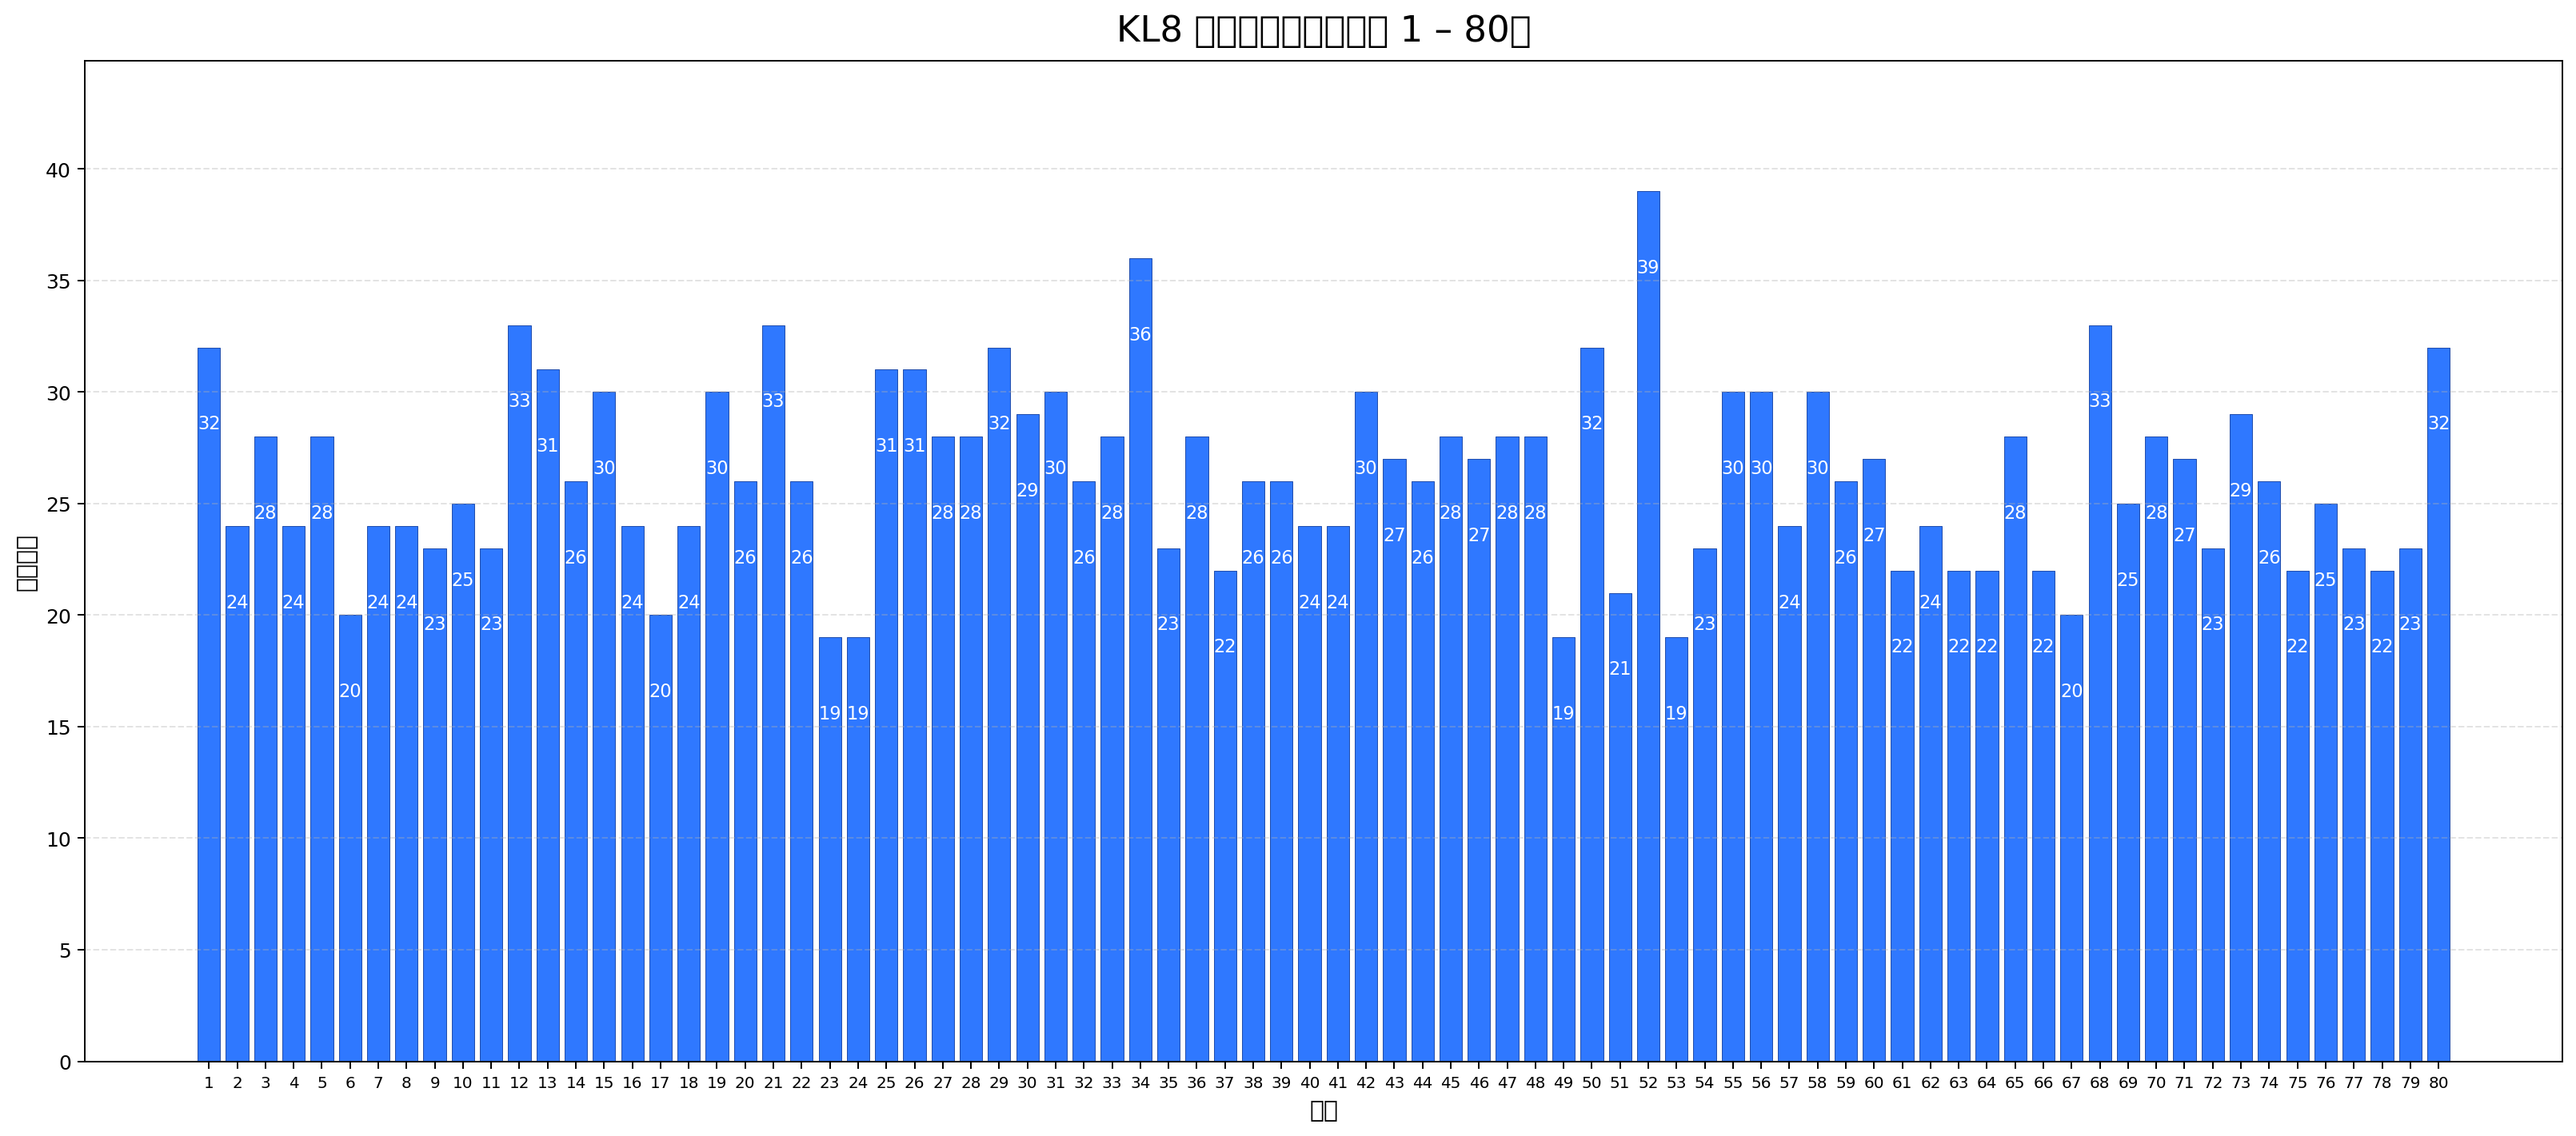
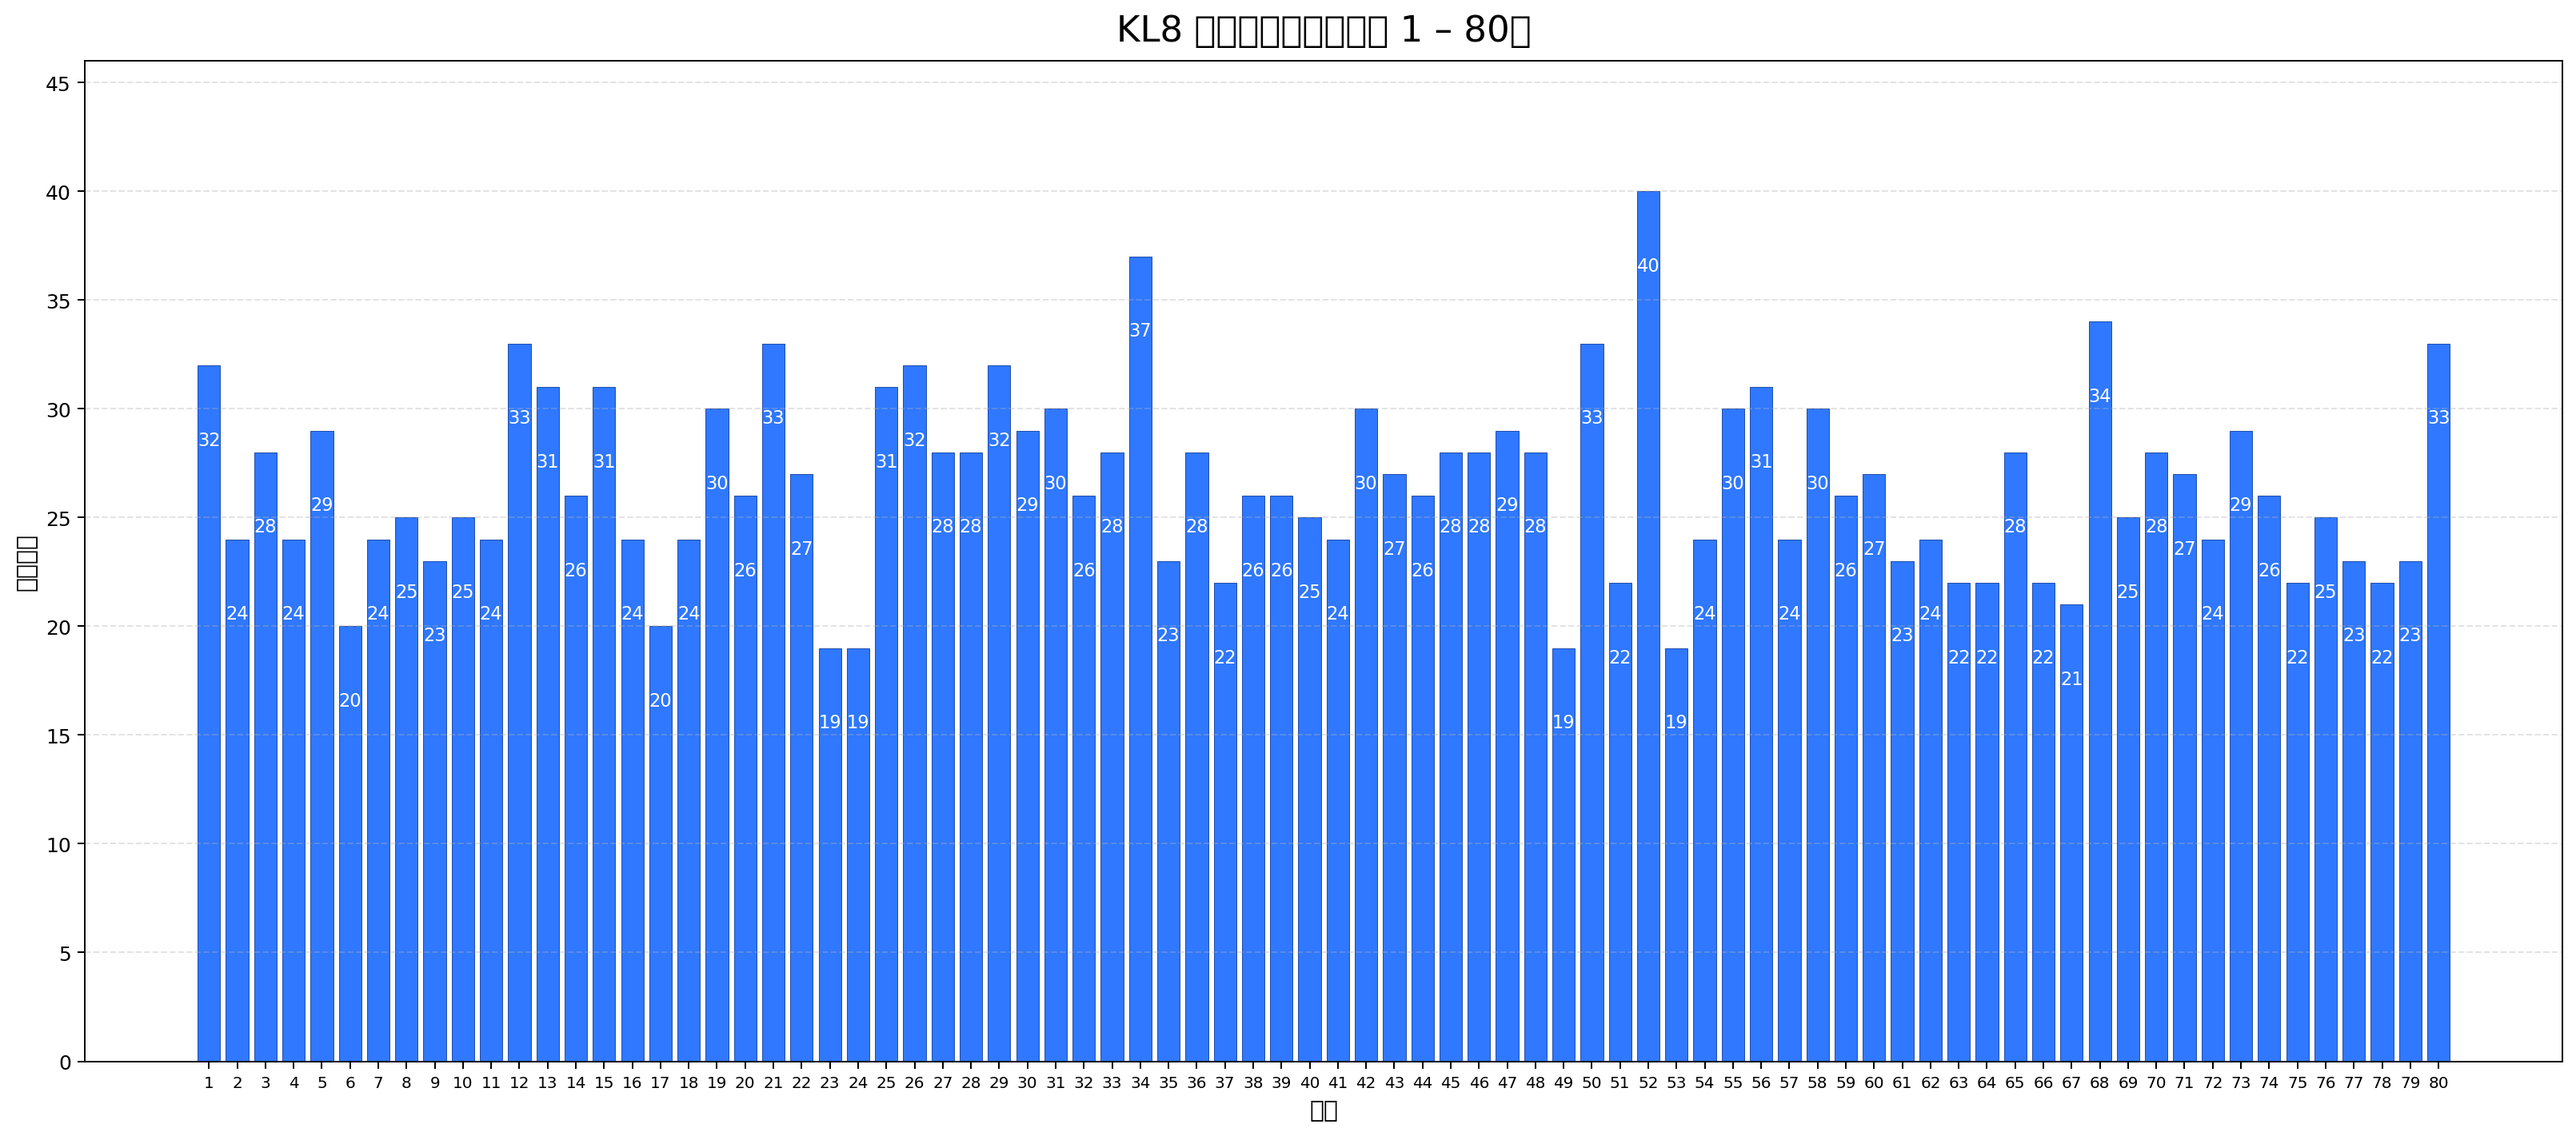
Update lottery data and analysis reports - 2025-08-20 23:16:18 (UTC+8)

diff --git a/reports/kl8_analysis_report.md b/reports/kl8_analysis_report.md
@@ -3,30 +3,30 @@
 > 免责声明：历史数据无法预测未来。本报告仅供技术学习参考，不构成投注建议。
 
 
-**数据期数**: 105 期
+**数据期数**: 106 期
 
-**最近开奖**: 期号 2025221 | 日期 2025-08-19(二) | 号码: 09, 10, 13, 14, 22, 30, 32, 34, 36, 38, 43, 49, 50, 54, 56, 57, 58, 68, 69, 76
+**最近开奖**: 期号 2025222 | 日期 2025-08-20(三) | 号码: 05, 08, 11, 15, 22, 26, 34, 40, 46, 47, 50, 51, 52, 54, 56, 61, 67, 68, 72, 80
 
-**和值均值(样本)**: 803.81 ；**理论期望**: 810
+**和值均值(样本)**: 804.39 ；**理论期望**: 810
 
 
 ## 热号 Top15
 
-52(39), 34(36), 12(33), 21(33), 68(33), 01(32), 29(32), 50(32), 80(32), 13(31), 25(31), 26(31), 15(30), 19(30), 31(30)
+52(40), 34(37), 68(34), 12(33), 21(33), 50(33), 80(33), 01(32), 26(32), 29(32), 13(31), 15(31), 25(31), 56(31), 19(30)
 
 
 ## 冷号 Top15
 
-53(19), 49(19), 24(19), 23(19), 67(20), 17(20), 06(20), 51(21), 78(22), 75(22), 66(22), 64(22), 63(22), 61(22), 37(22)
+53(19), 49(19), 24(19), 23(19), 17(20), 06(20), 67(21), 78(22), 75(22), 66(22), 64(22), 63(22), 51(22), 37(22), 79(23)
 
 
 ## 推荐组合（示例，非投注建议）
 
-- 方案1: 09, 10, 13, 28, 30, 33, 42, 43, 44, 48, 49, 55, 57, 62, 63, 66, 67, 68, 76, 78
-- 方案2: 04, 17, 18, 19, 21, 22, 26, 28, 33, 36, 43, 49, 50, 55, 60, 66, 69, 72, 75, 80
-- 方案3: 06, 07, 09, 11, 19, 22, 32, 33, 36, 42, 44, 45, 47, 51, 62, 67, 71, 76, 79, 80
-- 方案4: 02, 10, 13, 15, 21, 22, 26, 36, 38, 41, 43, 48, 50, 51, 53, 57, 68, 69, 72, 76
-- 方案5: 01, 04, 08, 09, 10, 14, 25, 26, 38, 41, 43, 56, 57, 59, 61, 65, 68, 69, 74, 76
+- 方案1: 09, 10, 14, 29, 30, 32, 42, 43, 45, 48, 49, 55, 56, 61, 63, 66, 67, 68, 76, 79
+- 方案2: 05, 08, 09, 12, 18, 22, 33, 34, 36, 43, 46, 47, 49, 52, 63, 67, 71, 76, 79, 80
+- 方案3: 10, 15, 17, 18, 19, 20, 22, 27, 29, 35, 36, 40, 43, 46, 47, 50, 52, 58, 69, 80
+- 方案4: 08, 09, 10, 13, 18, 20, 22, 24, 36, 37, 40, 42, 47, 51, 53, 61, 62, 68, 72, 75
+- 方案5: 05, 09, 15, 21, 22, 25, 28, 34, 36, 39, 41, 46, 52, 57, 64, 67, 68, 73, 79, 80
 
 ---
 

diff --git a/reports/kl8_profit_plan.md b/reports/kl8_profit_plan.md
@@ -4,16 +4,16 @@
 
 - 总预算：¥22.00 ； 单注价格：¥2.00 ； 计划总注数：11
 
-- 最近开奖：期号 2025221 | 日期 2025-08-19(二) | 号码：09, 10, 13, 14, 22, 30, 32, 34, 36, 38, 43, 49, 50, 54, 56, 57, 58, 68, 69, 76
+- 最近开奖：期号 2025222 | 日期 2025-08-20(三) | 号码：05, 08, 11, 15, 22, 26, 34, 40, 46, 47, 50, 51, 52, 54, 56, 61, 67, 68, 72, 80
 
 
 ## 推荐组合与资金分配
 
-- 方案01 | 分数 0.349116 | 注数   3 | 金额 ¥6.00 | 号码：09, 10, 13, 28, 30, 33, 42, 43, 44, 48, 49, 55, 57, 62, 63, 66, 67, 68, 76, 78
-- 方案02 | 分数 0.339329 | 注数   2 | 金额 ¥4.00 | 号码：04, 17, 18, 19, 21, 22, 26, 28, 33, 36, 43, 49, 50, 55, 60, 66, 69, 72, 75, 80
-- 方案03 | 分数 0.270347 | 注数   1 | 金额 ¥2.00 | 号码：06, 07, 09, 11, 19, 22, 32, 33, 36, 42, 44, 45, 47, 51, 62, 67, 71, 76, 79, 80
-- 方案04 | 分数 0.375 | 注数   3 | 金额 ¥6.00 | 号码：02, 10, 13, 15, 21, 22, 26, 36, 38, 41, 43, 48, 50, 51, 53, 57, 68, 69, 72, 76
-- 方案05 | 分数 0.333067 | 注数   2 | 金额 ¥4.00 | 号码：01, 04, 08, 09, 10, 14, 25, 26, 38, 41, 43, 56, 57, 59, 61, 65, 68, 69, 74, 76
+- 方案01 | 分数 0.313318 | 注数   2 | 金额 ¥4.00 | 号码：09, 10, 14, 29, 30, 32, 42, 43, 45, 48, 49, 55, 56, 61, 63, 66, 67, 68, 76, 79
+- 方案02 | 分数 0.309081 | 注数   2 | 金额 ¥4.00 | 号码：05, 08, 09, 12, 18, 22, 33, 34, 36, 43, 46, 47, 49, 52, 63, 67, 71, 76, 79, 80
+- 方案03 | 分数 0.312671 | 注数   2 | 金额 ¥4.00 | 号码：10, 15, 17, 18, 19, 20, 22, 27, 29, 35, 36, 40, 43, 46, 47, 50, 52, 58, 69, 80
+- 方案04 | 分数 0.310554 | 注数   2 | 金额 ¥4.00 | 号码：08, 09, 10, 13, 18, 20, 22, 24, 36, 37, 40, 42, 47, 51, 53, 61, 62, 68, 72, 75
+- 方案05 | 分数 0.329771 | 注数   3 | 金额 ¥6.00 | 号码：05, 09, 15, 21, 22, 25, 28, 34, 36, 39, 41, 46, 52, 57, 64, 67, 68, 73, 79, 80
 
 **合计**：¥22.00
 

diff --git a/reports/color_ball_analysis_report.md b/reports/color_ball_analysis_report.md
@@ -1,7 +1,7 @@
 # 🎯 双色球数据分析报告
 
 ## 📊 报告信息
-- **生成时间**: 2025年08月19日 23:16:17 (UTC+8)
+- **生成时间**: 2025年08月20日 23:16:09 (UTC+8)
 - **数据期数**: 共 1902 期
 - **下一期开奖日(按周)**: 周四
 - **最新期号**: 2025095
@@ -239,6 +239,6 @@
 
 ---
 
-*报告生成时间: 2025年08月19日 23:16:17 (UTC+8)*  
+*报告生成时间: 2025年08月20日 23:16:09 (UTC+8)*  
 *数据来源: 中国福利彩票官方网站*  
 *仅供学习研究使用，请理性购彩*

diff --git a/reports/double_color_balls_profits.md b/reports/double_color_balls_profits.md
@@ -5,7 +5,7 @@
 
 **⚠ 以下推荐号码基于历史统计分析，仅供参考，不保证中奖！**
 
-### 双色球推荐 (更新时间: 2025年08月19日 23:16:22)
+### 双色球推荐 (更新时间: 2025年08月20日 23:16:14)
 
 **推荐 1** (ML低熵): `02 05 06 10 17 31` + `06`  
 *LSTM+ARIMA+MonteCarlo 低熵组合 | 3奇3偶 | 和值:71 | 跨度:29*
@@ -23,6 +23,7 @@
 *LSTM+ARIMA+MonteCarlo 低熵组合 | 3奇3偶 | 和值:119 | 跨度:27*
 
 <!-- END:recommendations -->
+
 
 
 
